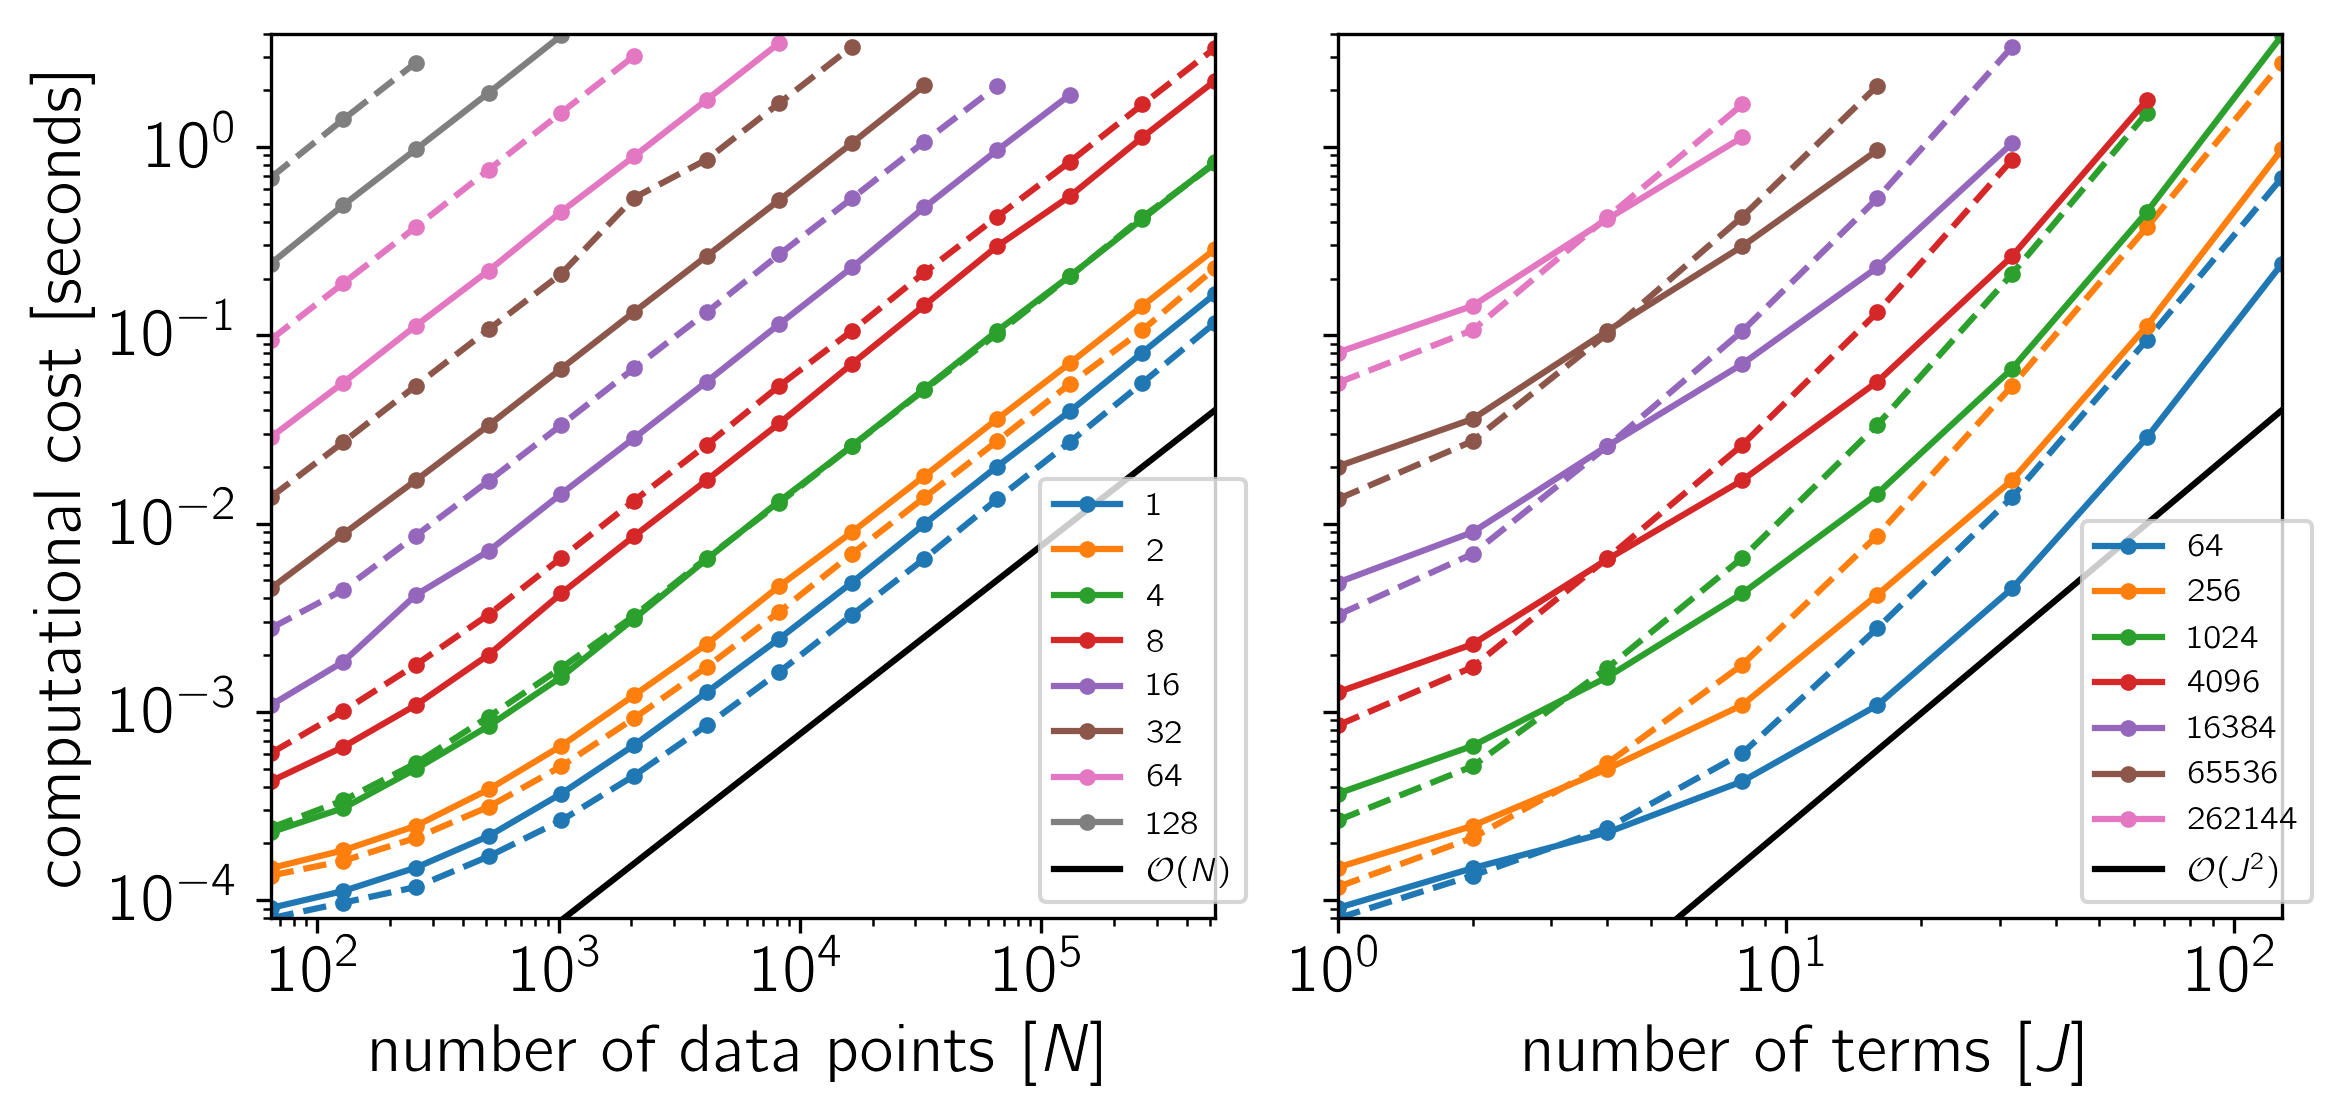
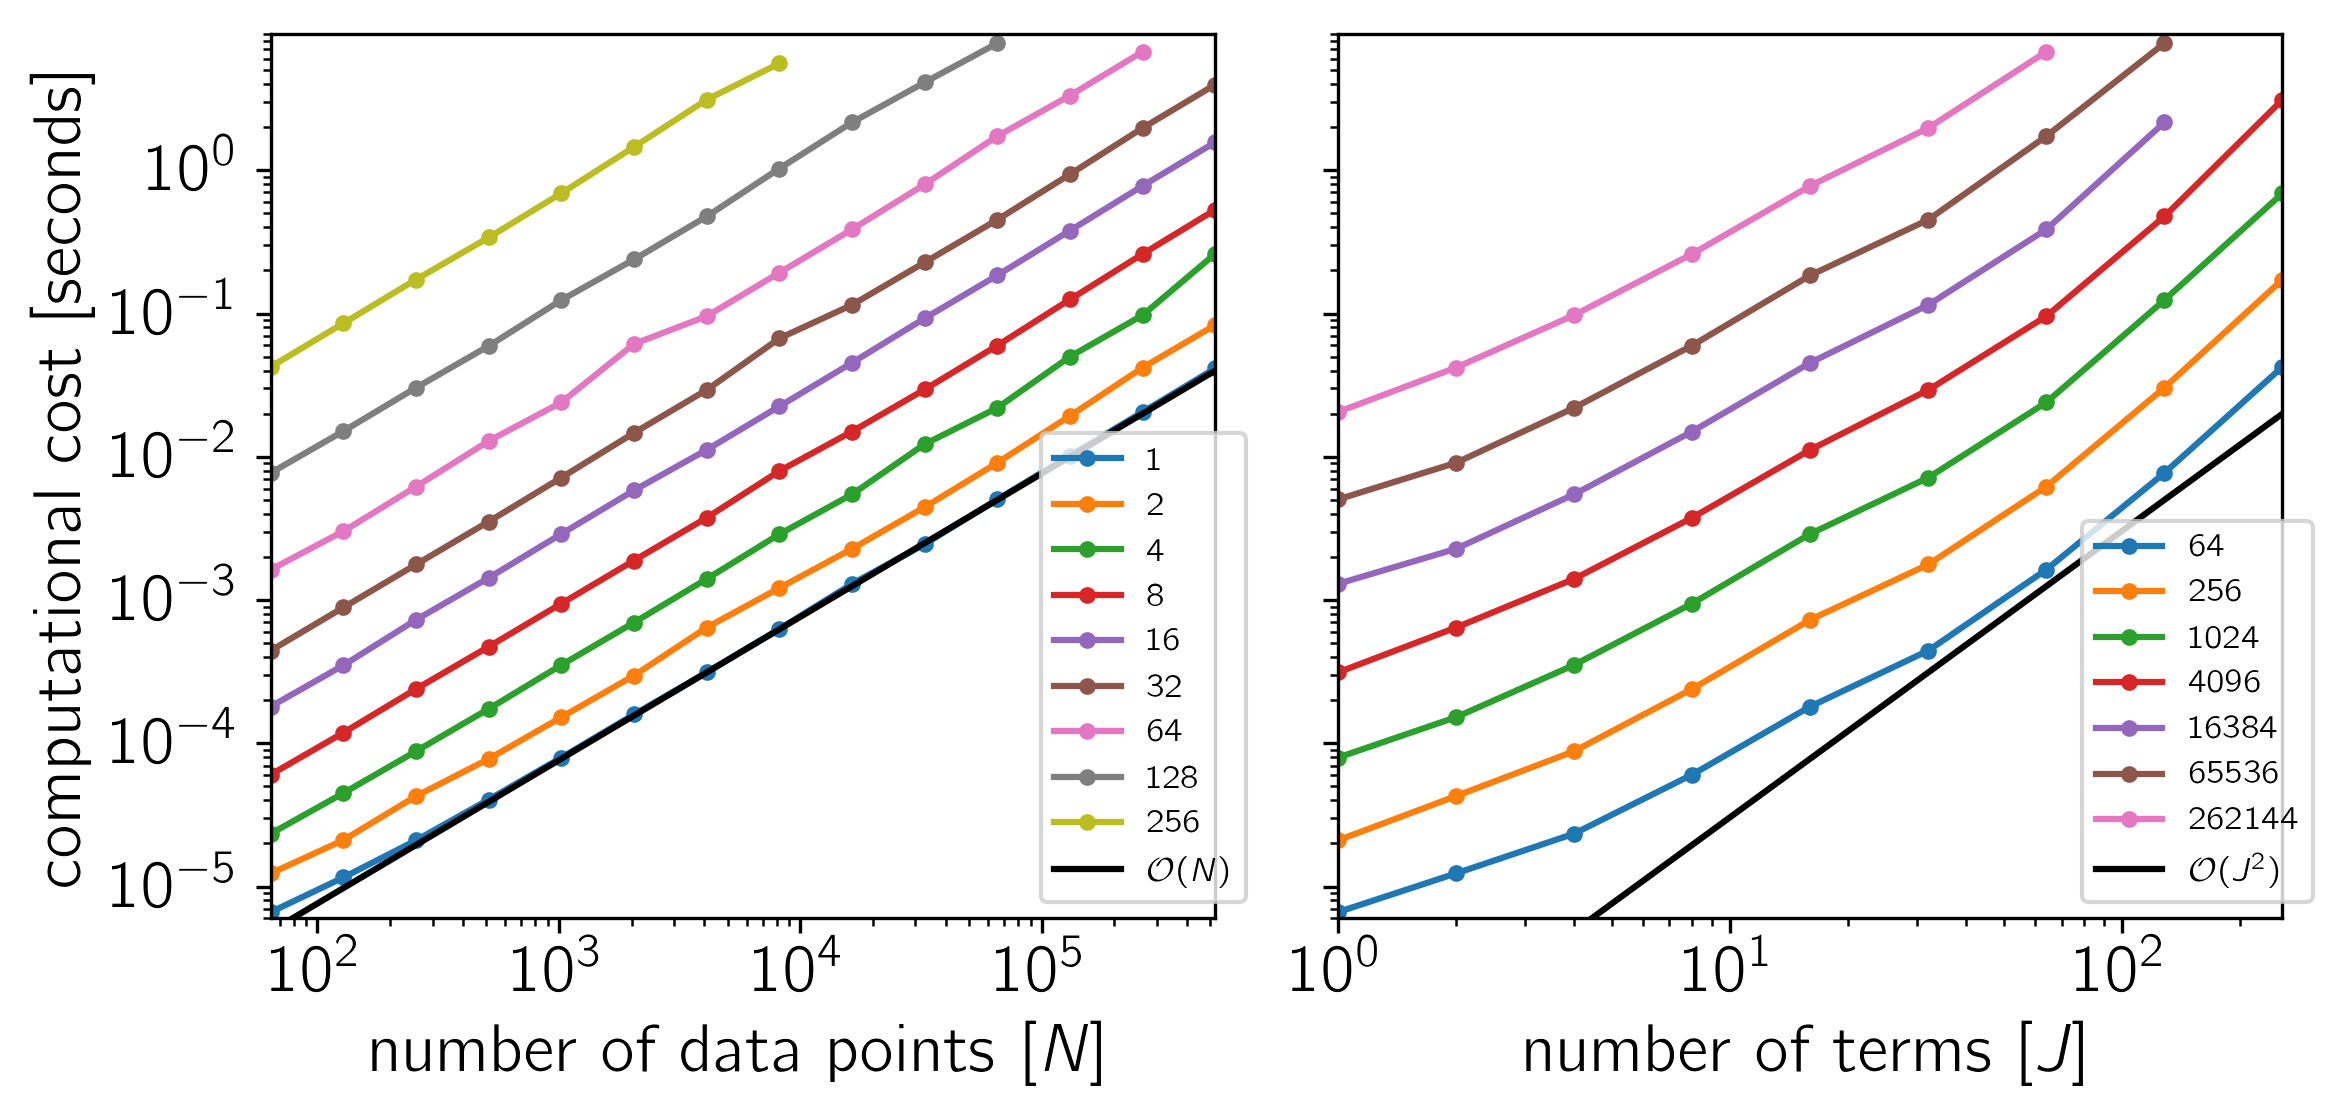
updated benchmark in docs [ci skip]

diff --git a/docs/python/benchmark.rst b/docs/python/benchmark.rst
@@ -13,10 +13,7 @@ computational cost of
 
 as a function of the number of data points :math:`N` and the number of terms
 :math:`J`. The theoretical scaling of this algorithm should be
-:math:`\mathcal{O}(N\,J^2)` and that's what we find if celerite is linked to a
-LAPACK implementation. The algorithm that is used in the absence of a LAPACK
-library scales poorly to large :math:`J` but it is more efficient for small
-:math:`J \lesssim 8`.
+:math:`\mathcal{O}(N\,J^2)`.
 
 The code for this example is `available on GitHub
 <https://github.com/dfm/celerite/blob/master/examples/benchmark/run.py>`_ and
@@ -24,27 +21,11 @@ below we show the results for a few different systems.
 In each plot, the computational time is plotted as a function of :math:`N` or
 :math:`J` and the colors correspond to the other dimension as indicated by the
 legend.
-The solid lines correspond to the cost when LAPACK is used and the dashed
-lines show the cost of the simple base algorithm.
-Both algorithms scale as :math:`\mathcal{O}(N)` for all :math:`J` but the
-simple algorithm is only preferred for small :math:`J`.
 
-**Example 1**: On macOS with Eigen 3.3.1, pybind11 2.0.1, NumPy 1.12.0, and
-MKL 2017.0.1.
-
-.. image:: benchmark_darwin_mkl.png
-
-**Example 2**: On macOS with Eigen 3.3.1, pybind11 2.0.1, NumPy 1.12.0, and
-Apple's Accelerate framework.
+**Example 1**: On macOS with Eigen 3.3.3, pybind11 2.0.1, and NumPy 1.12.0.
 
 .. image:: benchmark_darwin.png
 
-**Example 3**: On Linux with Eigen 3.3.1, pybind11 2.0.1, NumPy 1.12.0, and
-MKL 2017.0.1.
-
-.. image:: benchmark_linux_mkl.png
-
-**Example 4**: On Linux with Eigen 3.3.1, pybind11 2.0.1, NumPy 1.12.0, and
-OpenBLAS 0.2.19.
+**Example 2**: On Linux with Eigen 3.3.3, pybind11 2.0.1, and NumPy 1.12.0.
 
 .. image:: benchmark_linux.png
